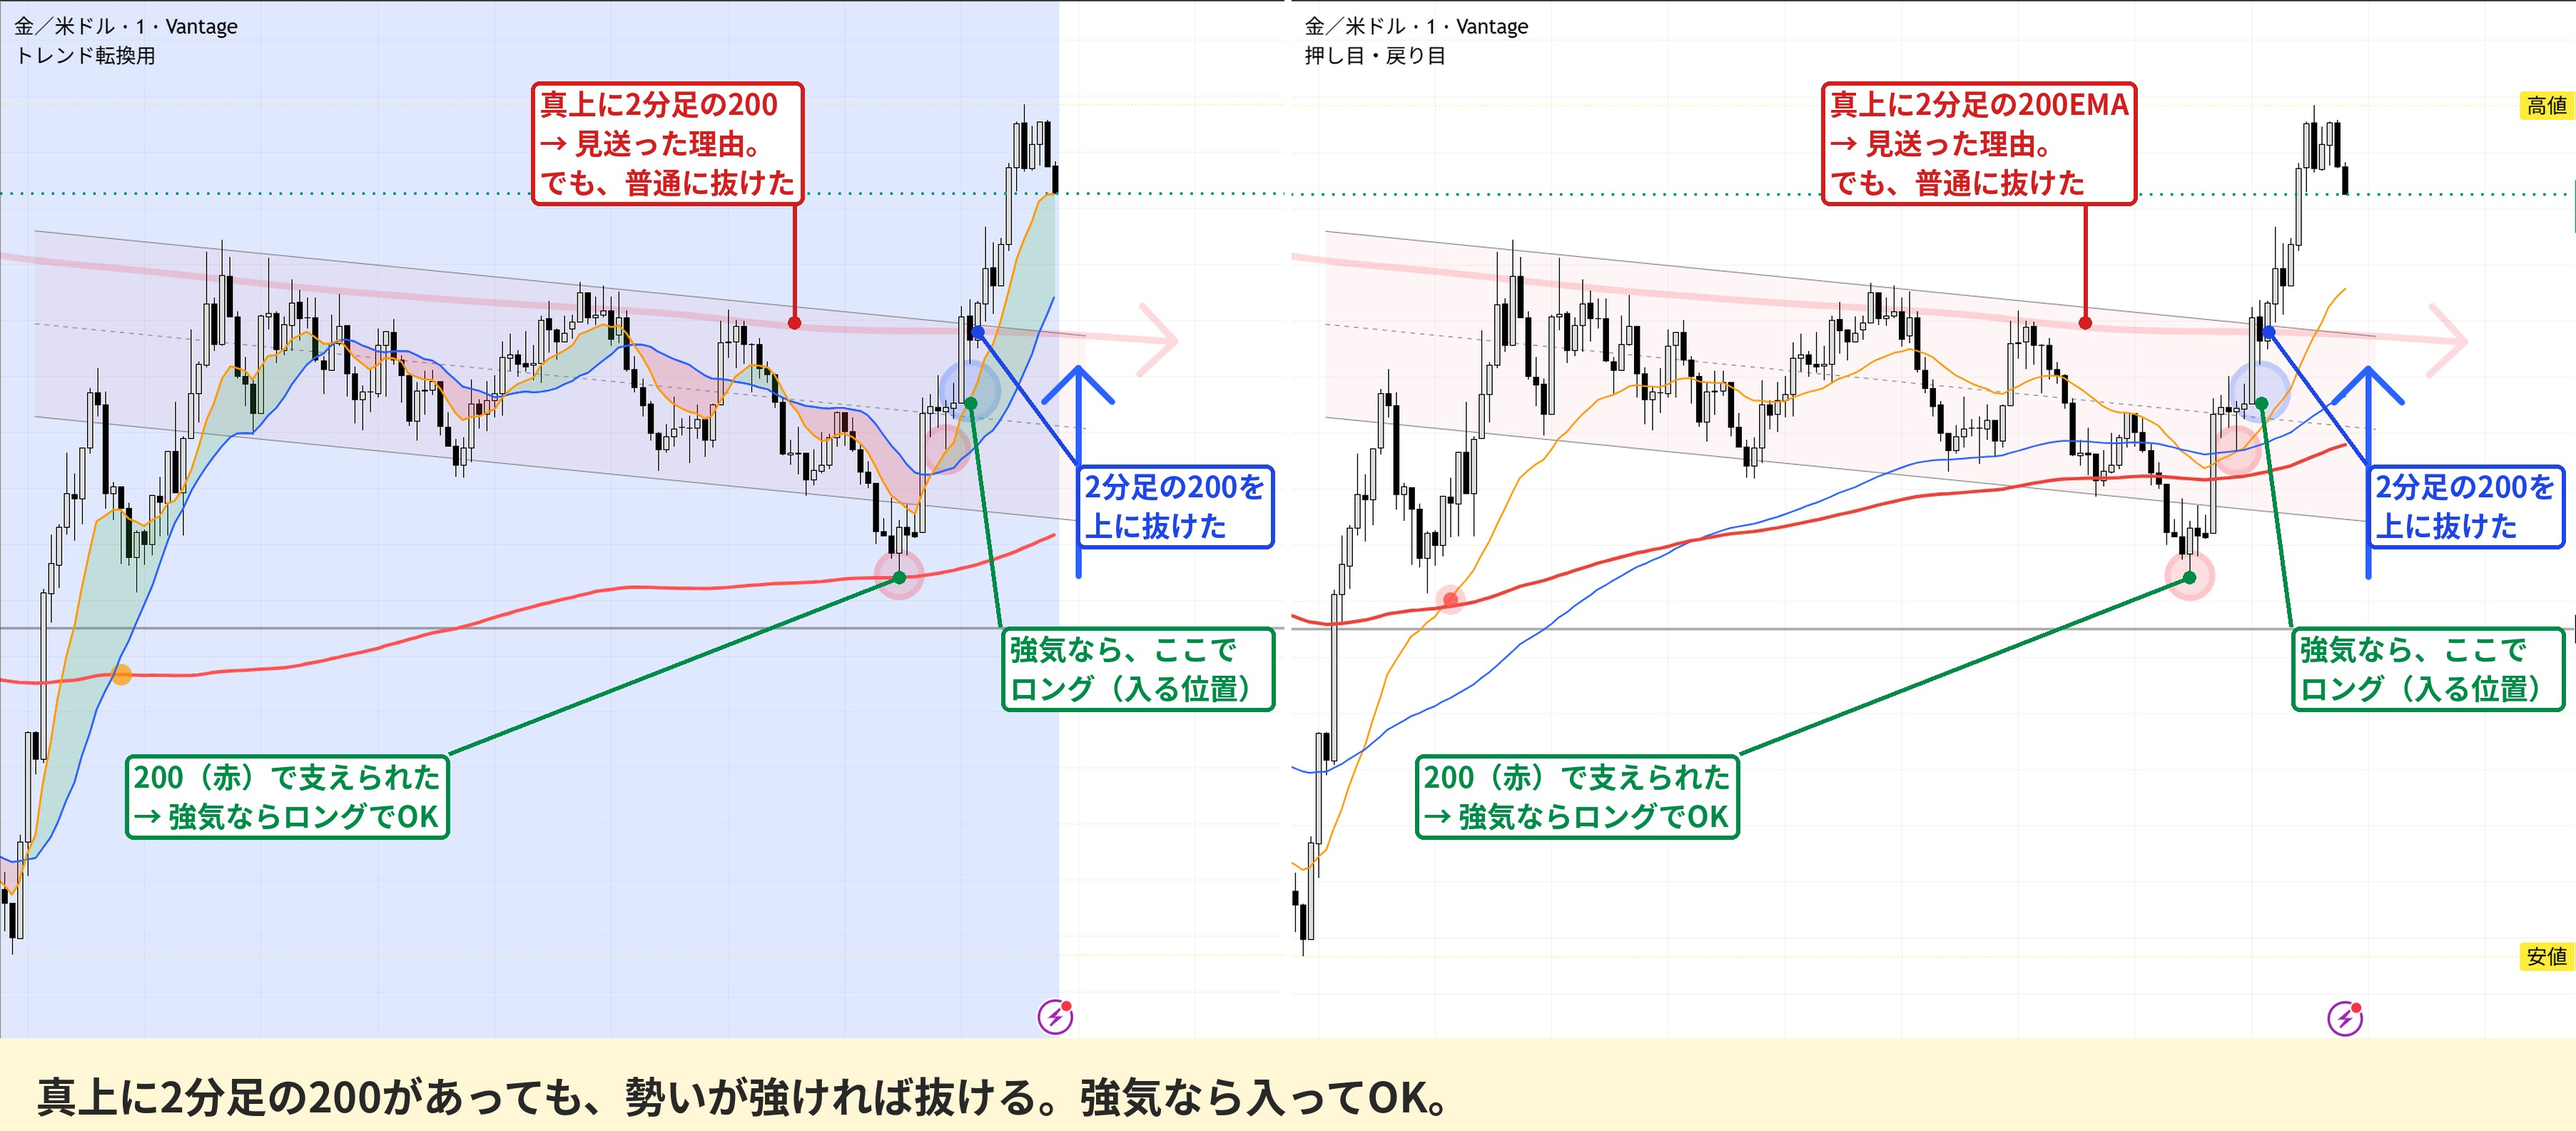
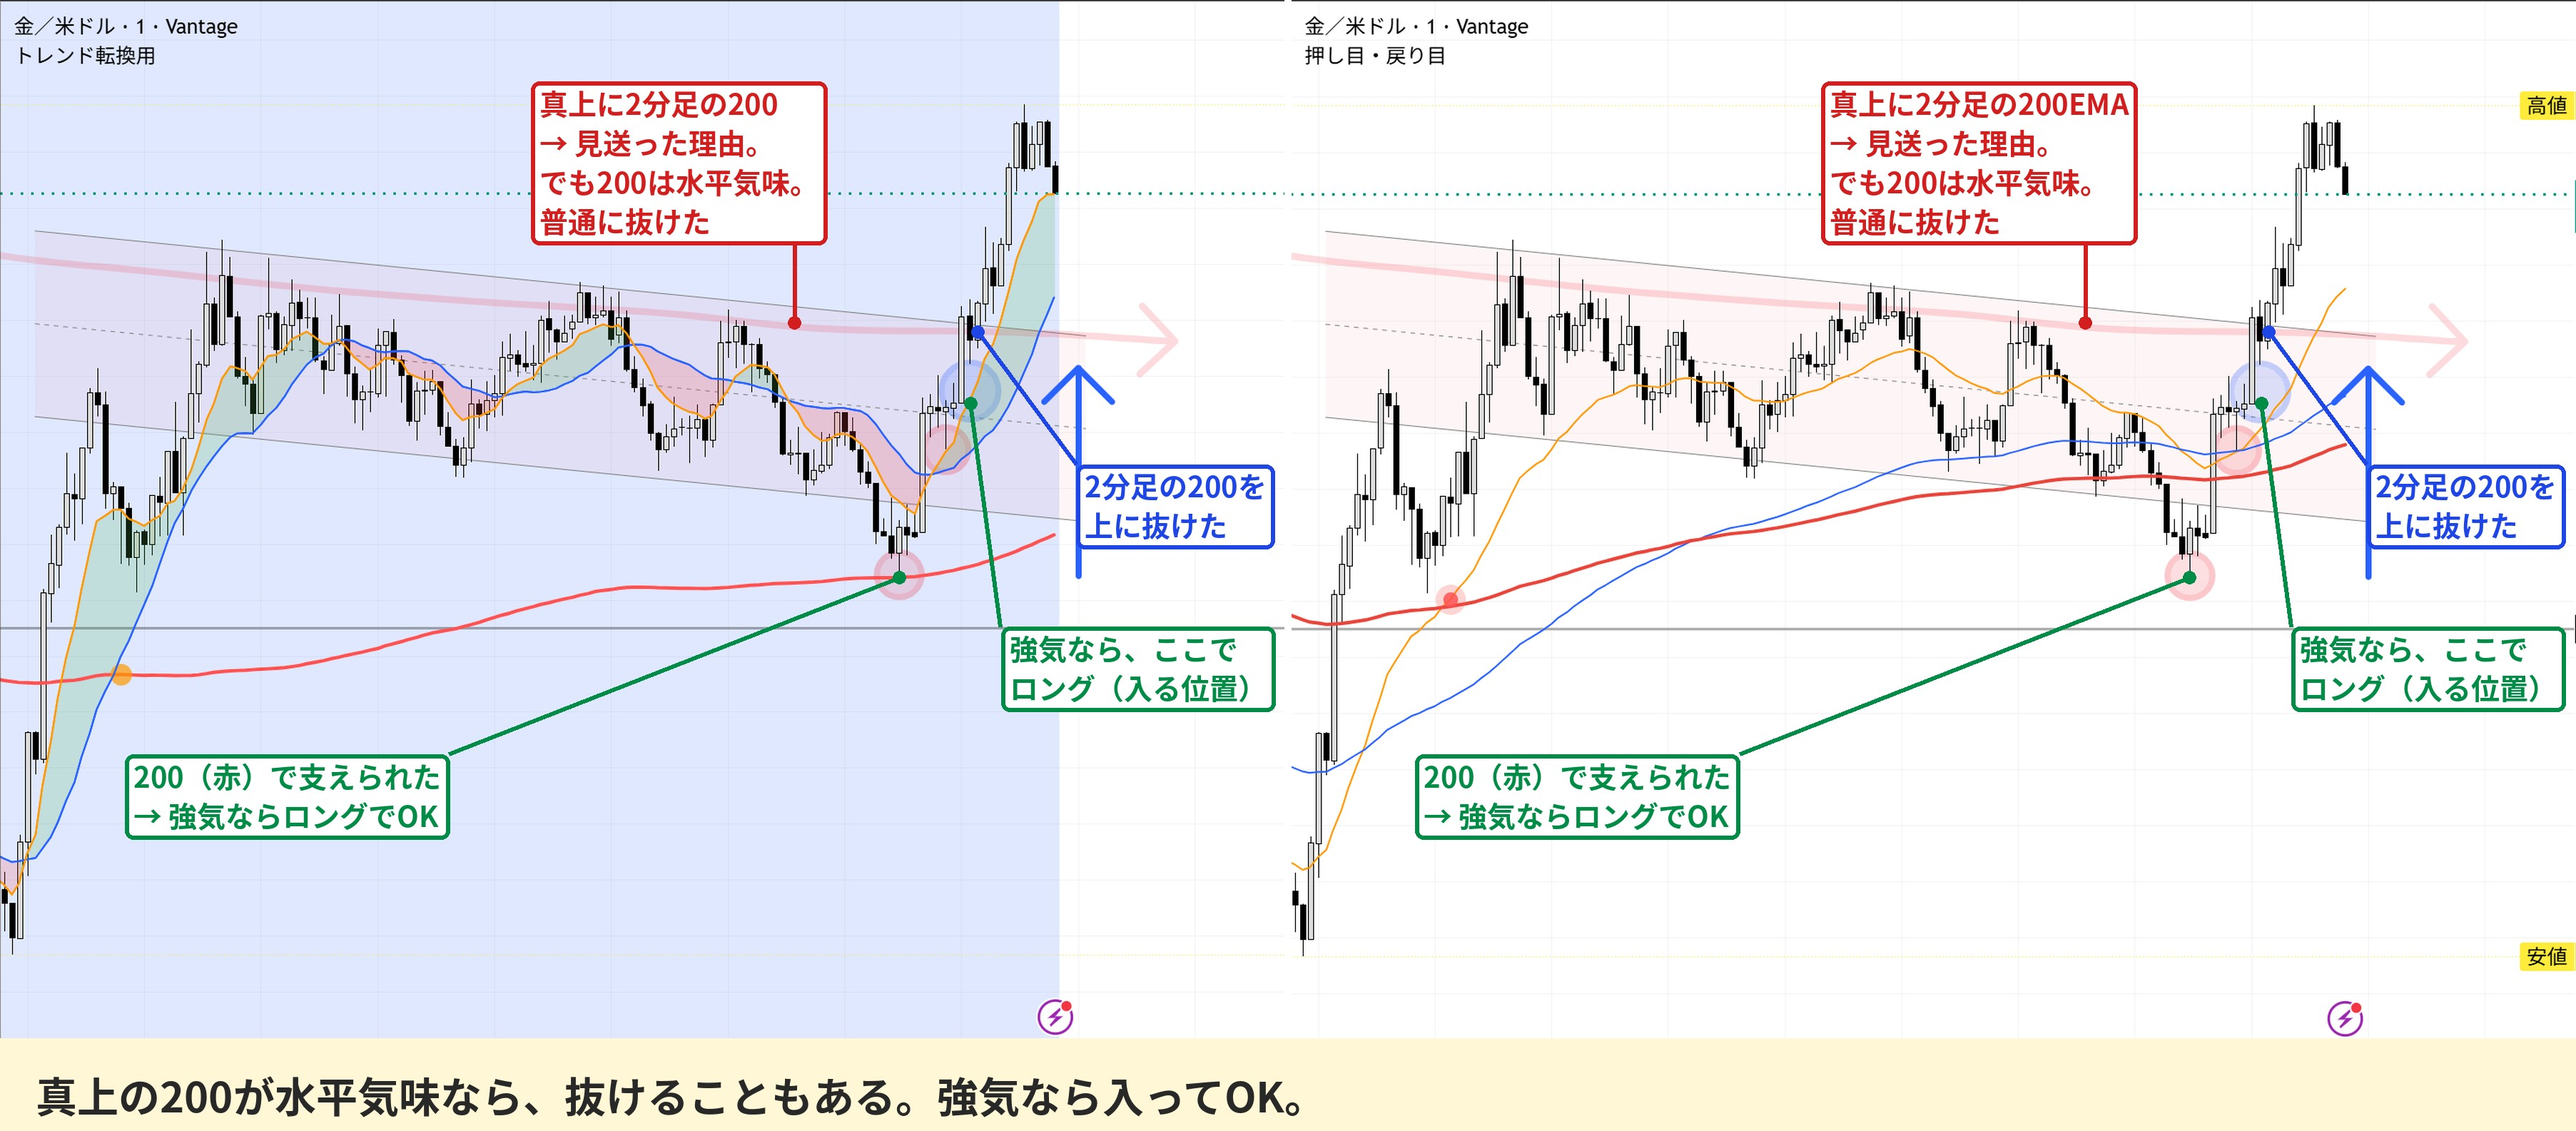
200が水平気味なら抜けることもある、を追記（例26・トレード前に見ること）
Claude-Session: https://claude.ai/code/session_01HxS9YaEfLR2yPnioVsHz63

Changed region(s): [[0.031, 0.9584, 0.5584, 0.9893], [0.1861, 0.0618, 0.3413, 0.2164], [0.6825, 0.1546, 0.8377, 0.2164]]

diff --git a/before.html b/before.html
@@ -144,7 +144,7 @@ body.lb-open { overflow: hidden; }
 
   <section class="card big" id="s4">
     <h2>4. すぐ先に、壁や床がないか</h2>
-    <p class="lead">横線、200と横線が重なる所を見る。</p>
+    <p class="lead">横線、200と横線が重なる所を見る。200が水平気味なら、壁として弱く、抜けることもある。（下向きなら壁になりやすい）</p>
     <div class="yn"><div class="ok"><b>○ 入る</b>先まで、損切りの幅より広い余地がある。</div><div class="ng"><b>× 入らない</b>余地が、損切りの幅より小さい。赤(200)までの距離が近い。ショートのすぐ下に、200と横線が重なる所がある。</div></div>
     <figure class="pic wide">
       <a href="methods/rev-box1m.jpg"><img src="methods/rev-box1m.jpg" alt="200と横線が重なる所はロング。下半分のショートは入らない" loading="lazy"></a>
